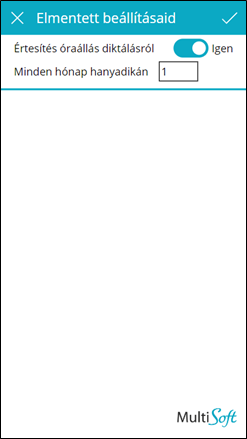
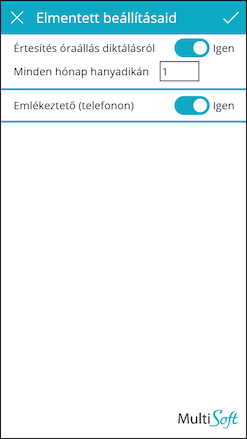
Updated doc with push notification setting

Changed region(s): [[0.0, 0.0296, 1.0, 1.0], [0.7085, 0.918, 0.9636, 0.9772]]

diff --git a/docs/chapters/mileagerecords/20_ReminderSettings.md b/docs/chapters/mileagerecords/20_ReminderSettings.md
@@ -13,5 +13,8 @@ nav_order: 20
 A beállítások oldalon a következő opciók találhatóak:
 -	Diktálási értesítő (email) ki-bekapcsolása
 -	A hónap hanyadik napján jöjjön email értesítés
+-   Diktálási emlékeztető (push notification, telefonon) ki-bekapcsolása
 
-A diktálási értesítő email az adott felhasználó email címére érkezik minden hónap azon napján amelyet a felhasználó beállít. Az alapértelmezett beállítás minden hónap 1. napja.
+A **diktálási értesítő email** az adott felhasználó email címére érkezik minden hónap azon napján amelyet a felhasználó beállít. Az alapértelmezett beállítás minden hónap 1. napja.
+
+A **diktálási emlékeztető** üzenet minden nap reggel 8:00-kor érkezik okostelefonon addig, amíg a felhasználó nem ad le diktálást az adott hónapban.
